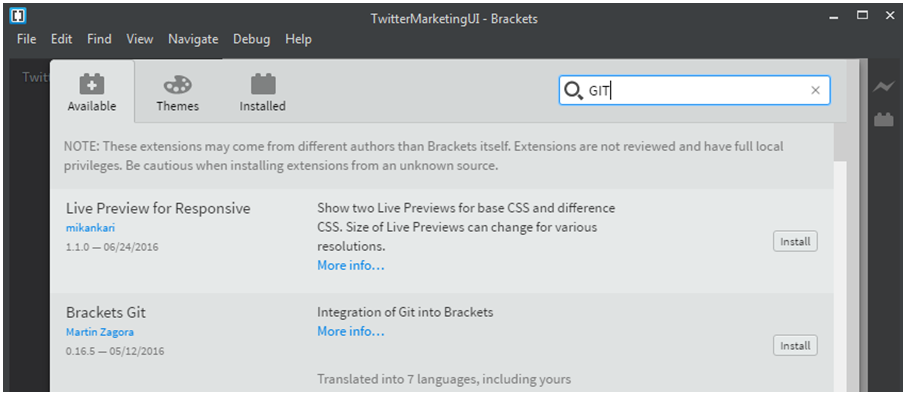
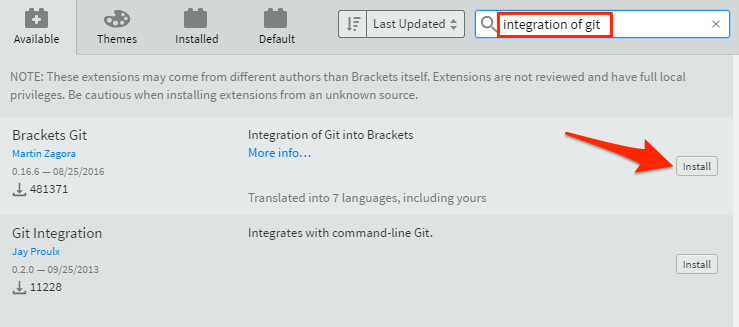
more updates after testing on a trial account

diff --git a/workshops/microservices-mysql/StudentGuide.md b/workshops/microservices-mysql/StudentGuide.md
@@ -98,7 +98,7 @@ Some services that we will use in this workshop require that your account's Repl
 
     ![](images/studentguide/Picture106.png)
 
-- **Unzip** and **save** the **privateKey** and **publicKey** files, as you will need these files when accessing the Cloud Image on which the MySQL Database will be installed.
+- **Unzip/Extract** and **save** the **privateKey** and **publicKey** files, as you will need these files when accessing the Cloud Image on which the MySQL Database will be installed.
 
     ![](images/studentguide/Picture109.png)
 
@@ -114,7 +114,7 @@ Some services that we will use in this workshop require that your account's Repl
 
     ![](images/studentguide/Picture108.png)
 
-- It will take several minutes for the MySQL Database to be fully configured. You can click on the refresh Icon to refresh the status page. You can Also click on the Status Link to view the provisioning log.
+- It will take several minutes for the MySQL Database to be fully configured. You can click on the refresh Icon to refresh the status page. You can Also click on the Status Link to view the provisioning log. Take a break for an hour while the database and database image are provisioning.
 
     ![](images/studentguide/Picture110.png)
 
@@ -178,6 +178,10 @@ Some services that we will use in this workshop require that your account's Repl
 
     ![](images/studentguide/Picture216.png)
 
+- If you receive a PuTTY Security Alert about the server's host key not in the registry, click on **Yes** to trust the host.
+
+    ![](images/studentguide/Picture216.2.png)
+
 - Enter in the username `opc` and press the **return** key.
 
     ![](images/studentguide/Picture217.png)
@@ -188,7 +192,7 @@ Some services that we will use in this workshop require that your account's Repl
 
 ### **Step 7 (option Mac)**: Connecting from a Mac
 
-From a Mac Terminal window, you will now **ssh** into the MySQL Host using the **Public IP**.
+If you are using a Mac, you will perform this step from a Mac Terminal window. First **ssh** into the MySQL Host using the **Public IP**.
 
 - Open a Terminal Window, change to the directory where you saved your **privateKey** file, and change the file permission of the private key file to **600** using the following command: 
 
@@ -208,11 +212,17 @@ From a Mac Terminal window, you will now **ssh** into the MySQL Host using the *
 
 ### **Step 8**: Install git in the MySQL Image
 
-- Enter the **yum** command shown below to Install **git**. When prompted with the question, "**Is this OK**" enter `Yes`
+- From either your Window's PuTTY connection, or from you Mac Terminal window, enter the **yum** command shown below to Install **git**. 
 
     ```
     sudo yum install git
     ```
+
+    ![](images/studentguide/Picture114.2.png)
+
+- When prompted with the question, "**Is this OK**" enter `y` and press the return key.
+
+    ![](images/studentguide/Picture114.3.png)
 
 ### **Step 9**: Clone the Script repository
 
@@ -248,7 +258,7 @@ From a Mac Terminal window, you will now **ssh** into the MySQL Host using the *
 
     ![](images/studentguide/Picture119.png)
 
-- Run the **setupAlphaUser.sh** script with the following command - ignore the warnings:
+- Run the **setupAlphaUser.sh** script with the following command. Ignore the warnings. **Note**: the setupAlphaUser.sh script use the Password suggested in previous steps. If you used a different password when creating the Database than what was documented, you will need to update the the password in the script.
 
     ```
     ./setupAlphaUser.sh
@@ -259,6 +269,8 @@ From a Mac Terminal window, you will now **ssh** into the MySQL Host using the *
     mysql -ualpha -pAlpha2017_ AlphaOfficeDB -e 'SHOW TABLES;'
     ```
     ![](images/studentguide/Picture120.png)
+
+- You can now exit and close the Terminal/PuTTY window.
 
 # Install the Open Source Tools
 
@@ -393,7 +405,7 @@ xsi:schemaLocation="http://maven.apache.org/SETTINGS/1.1.0 http://maven.apache.o
 
     ![](images/studentguide/Picture11.png)
 
-- Run through the installation process
+- Run through the installation process. In our tests, we used the default installation settings.
 
     ![](images/studentguide/Picture12.png)
 
@@ -415,17 +427,17 @@ xsi:schemaLocation="http://maven.apache.org/SETTINGS/1.1.0 http://maven.apache.o
 
 ![](images/studentguide/Picture16.png)
 
-- Run through the installation process
+- Run through the installation process. In our tests, we used the default installation settings.
 
 ### **Step 17**: Start Brackets and Configure Git
 
-- Create a directory called **TwitterMarketingUI**. From Windows Explorer navigate to the directory **TwitterMarketingUI**, right click and select **Open as Brackets Project**
+- From a location of your choice, create a directory called **TwitterMarketingUI**. From Windows Explorer navigate to the directory **TwitterMarketingUI**, right click and select **Open as Brackets Project**
 
     ![](images/studentguide/Picture17.png)
 
 - Select **File -> Extension Manager…**
 
-- In the search field, type `Git`. Click **Install** for **Brackets Git**
+- In the search field, type `integration of git`. Click **Install** for **Brackets Git**
 
     ![](images/studentguide/Picture18.png)
 
